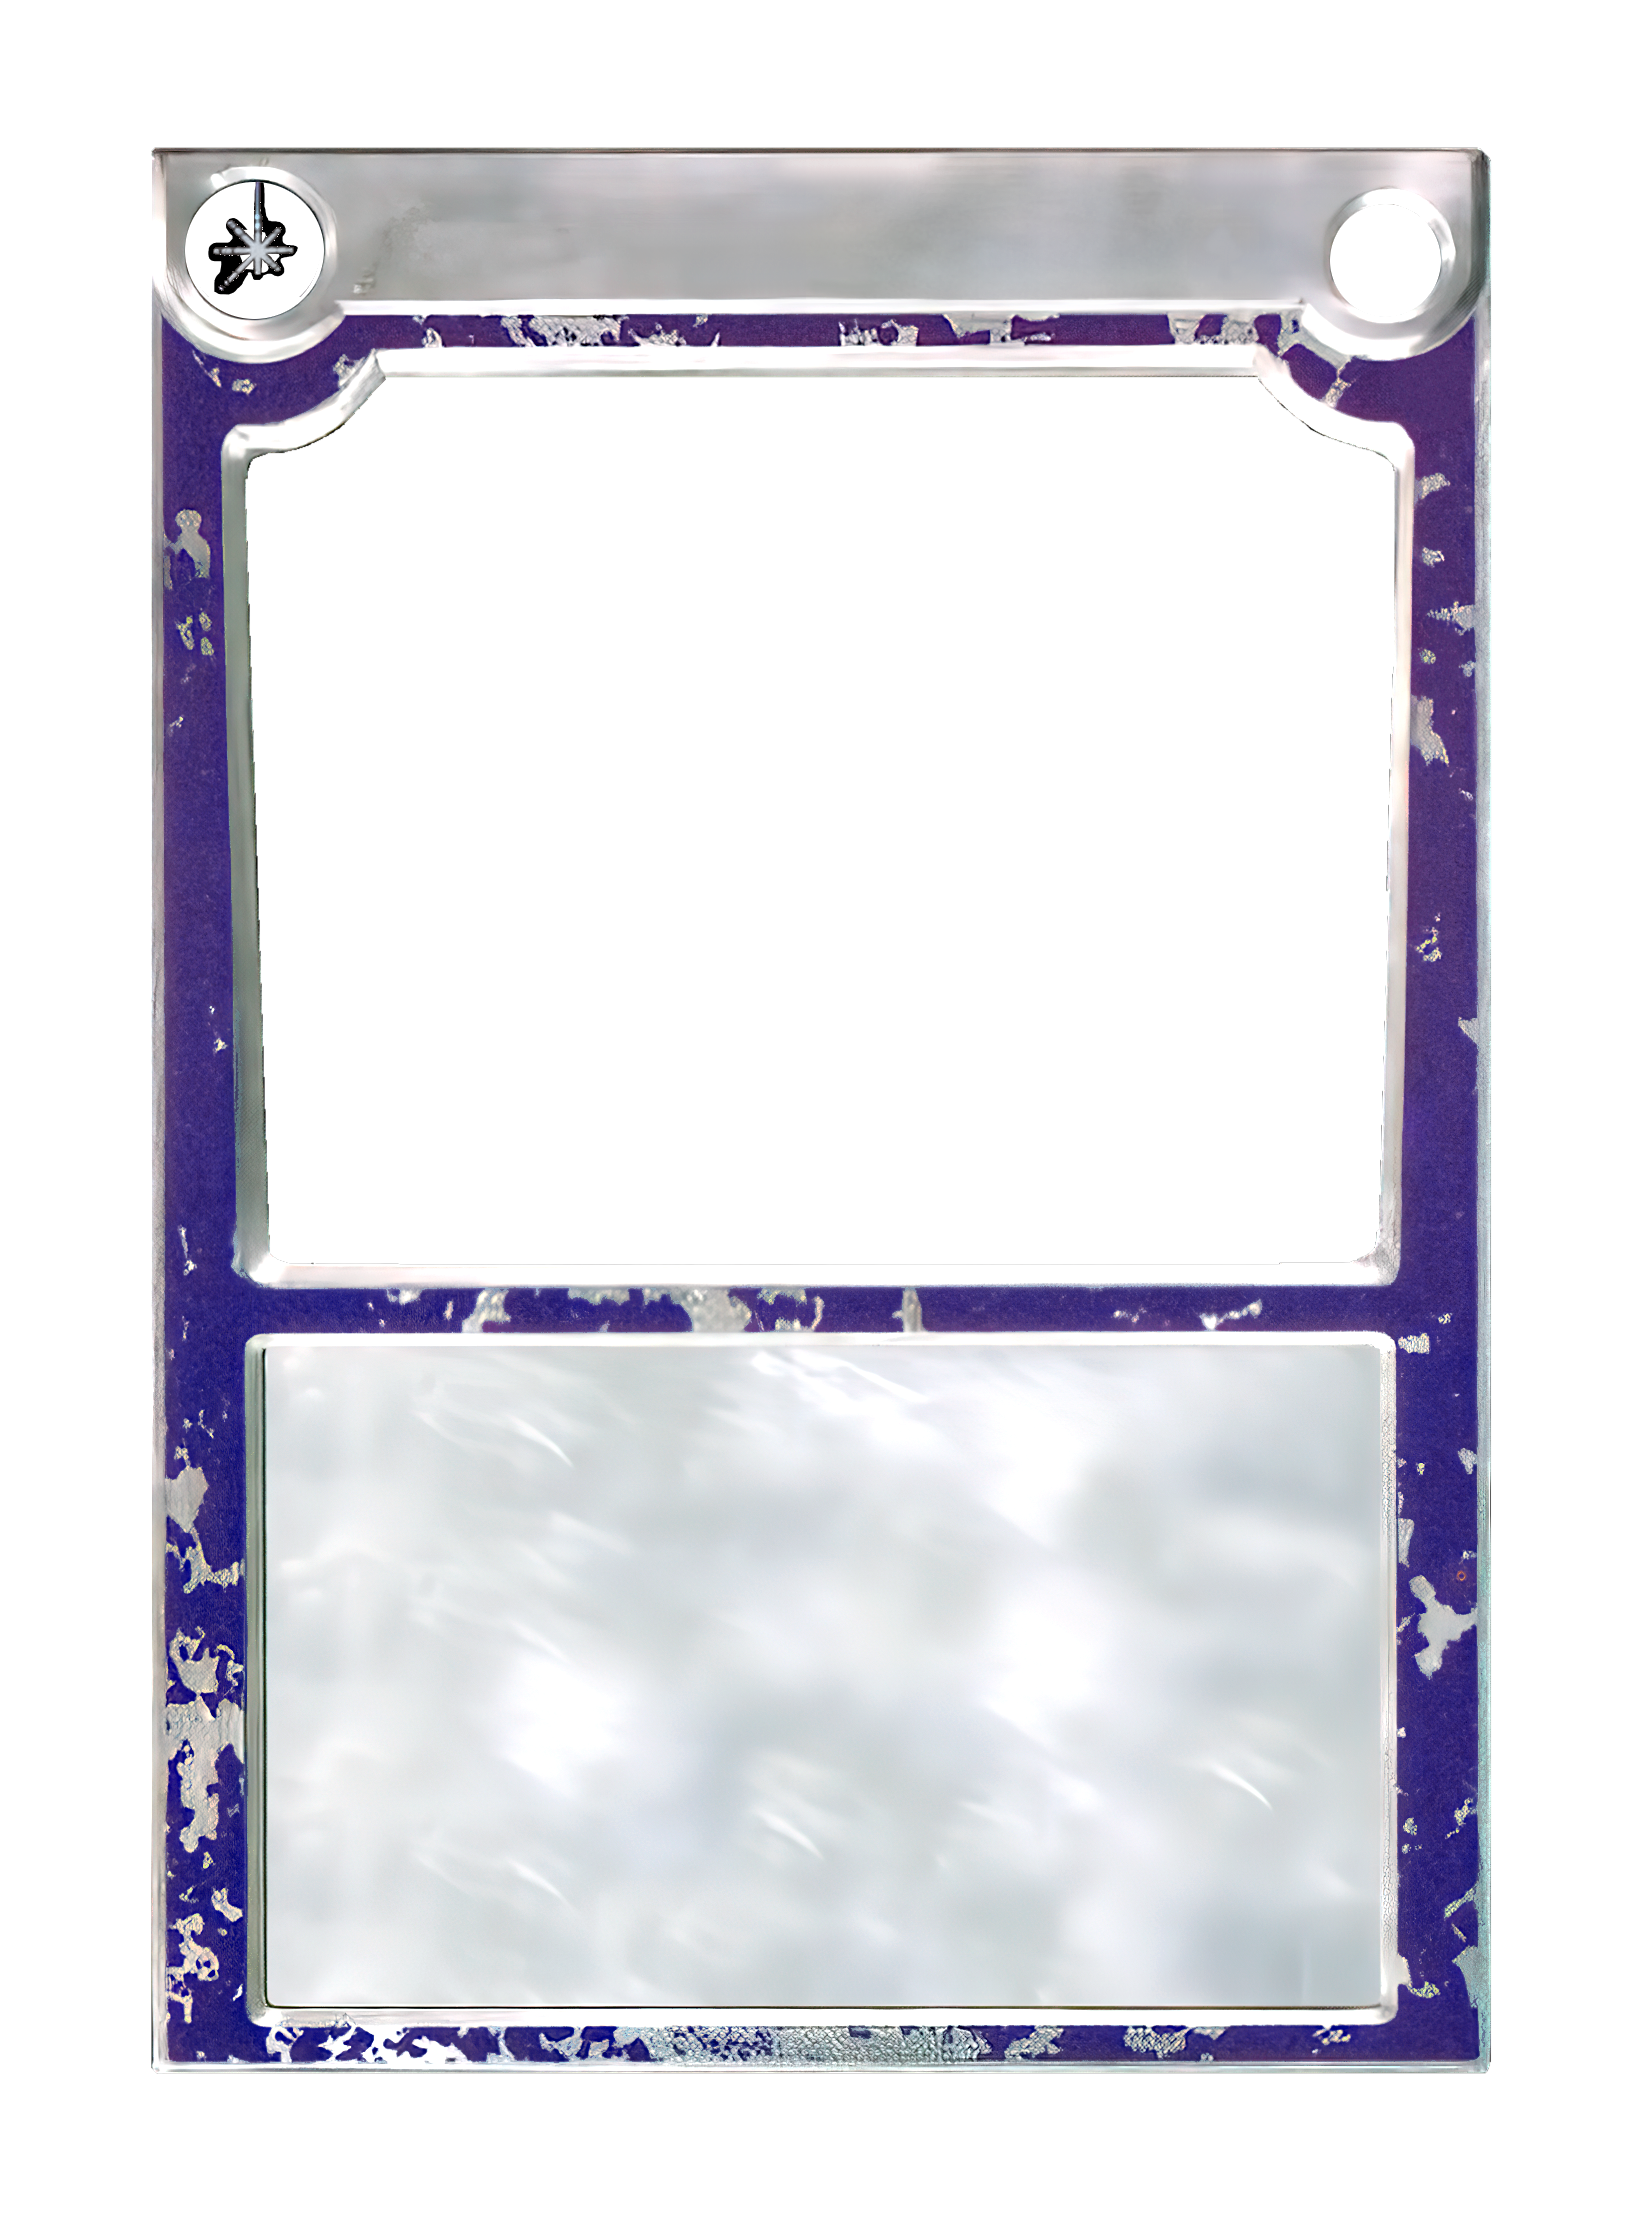
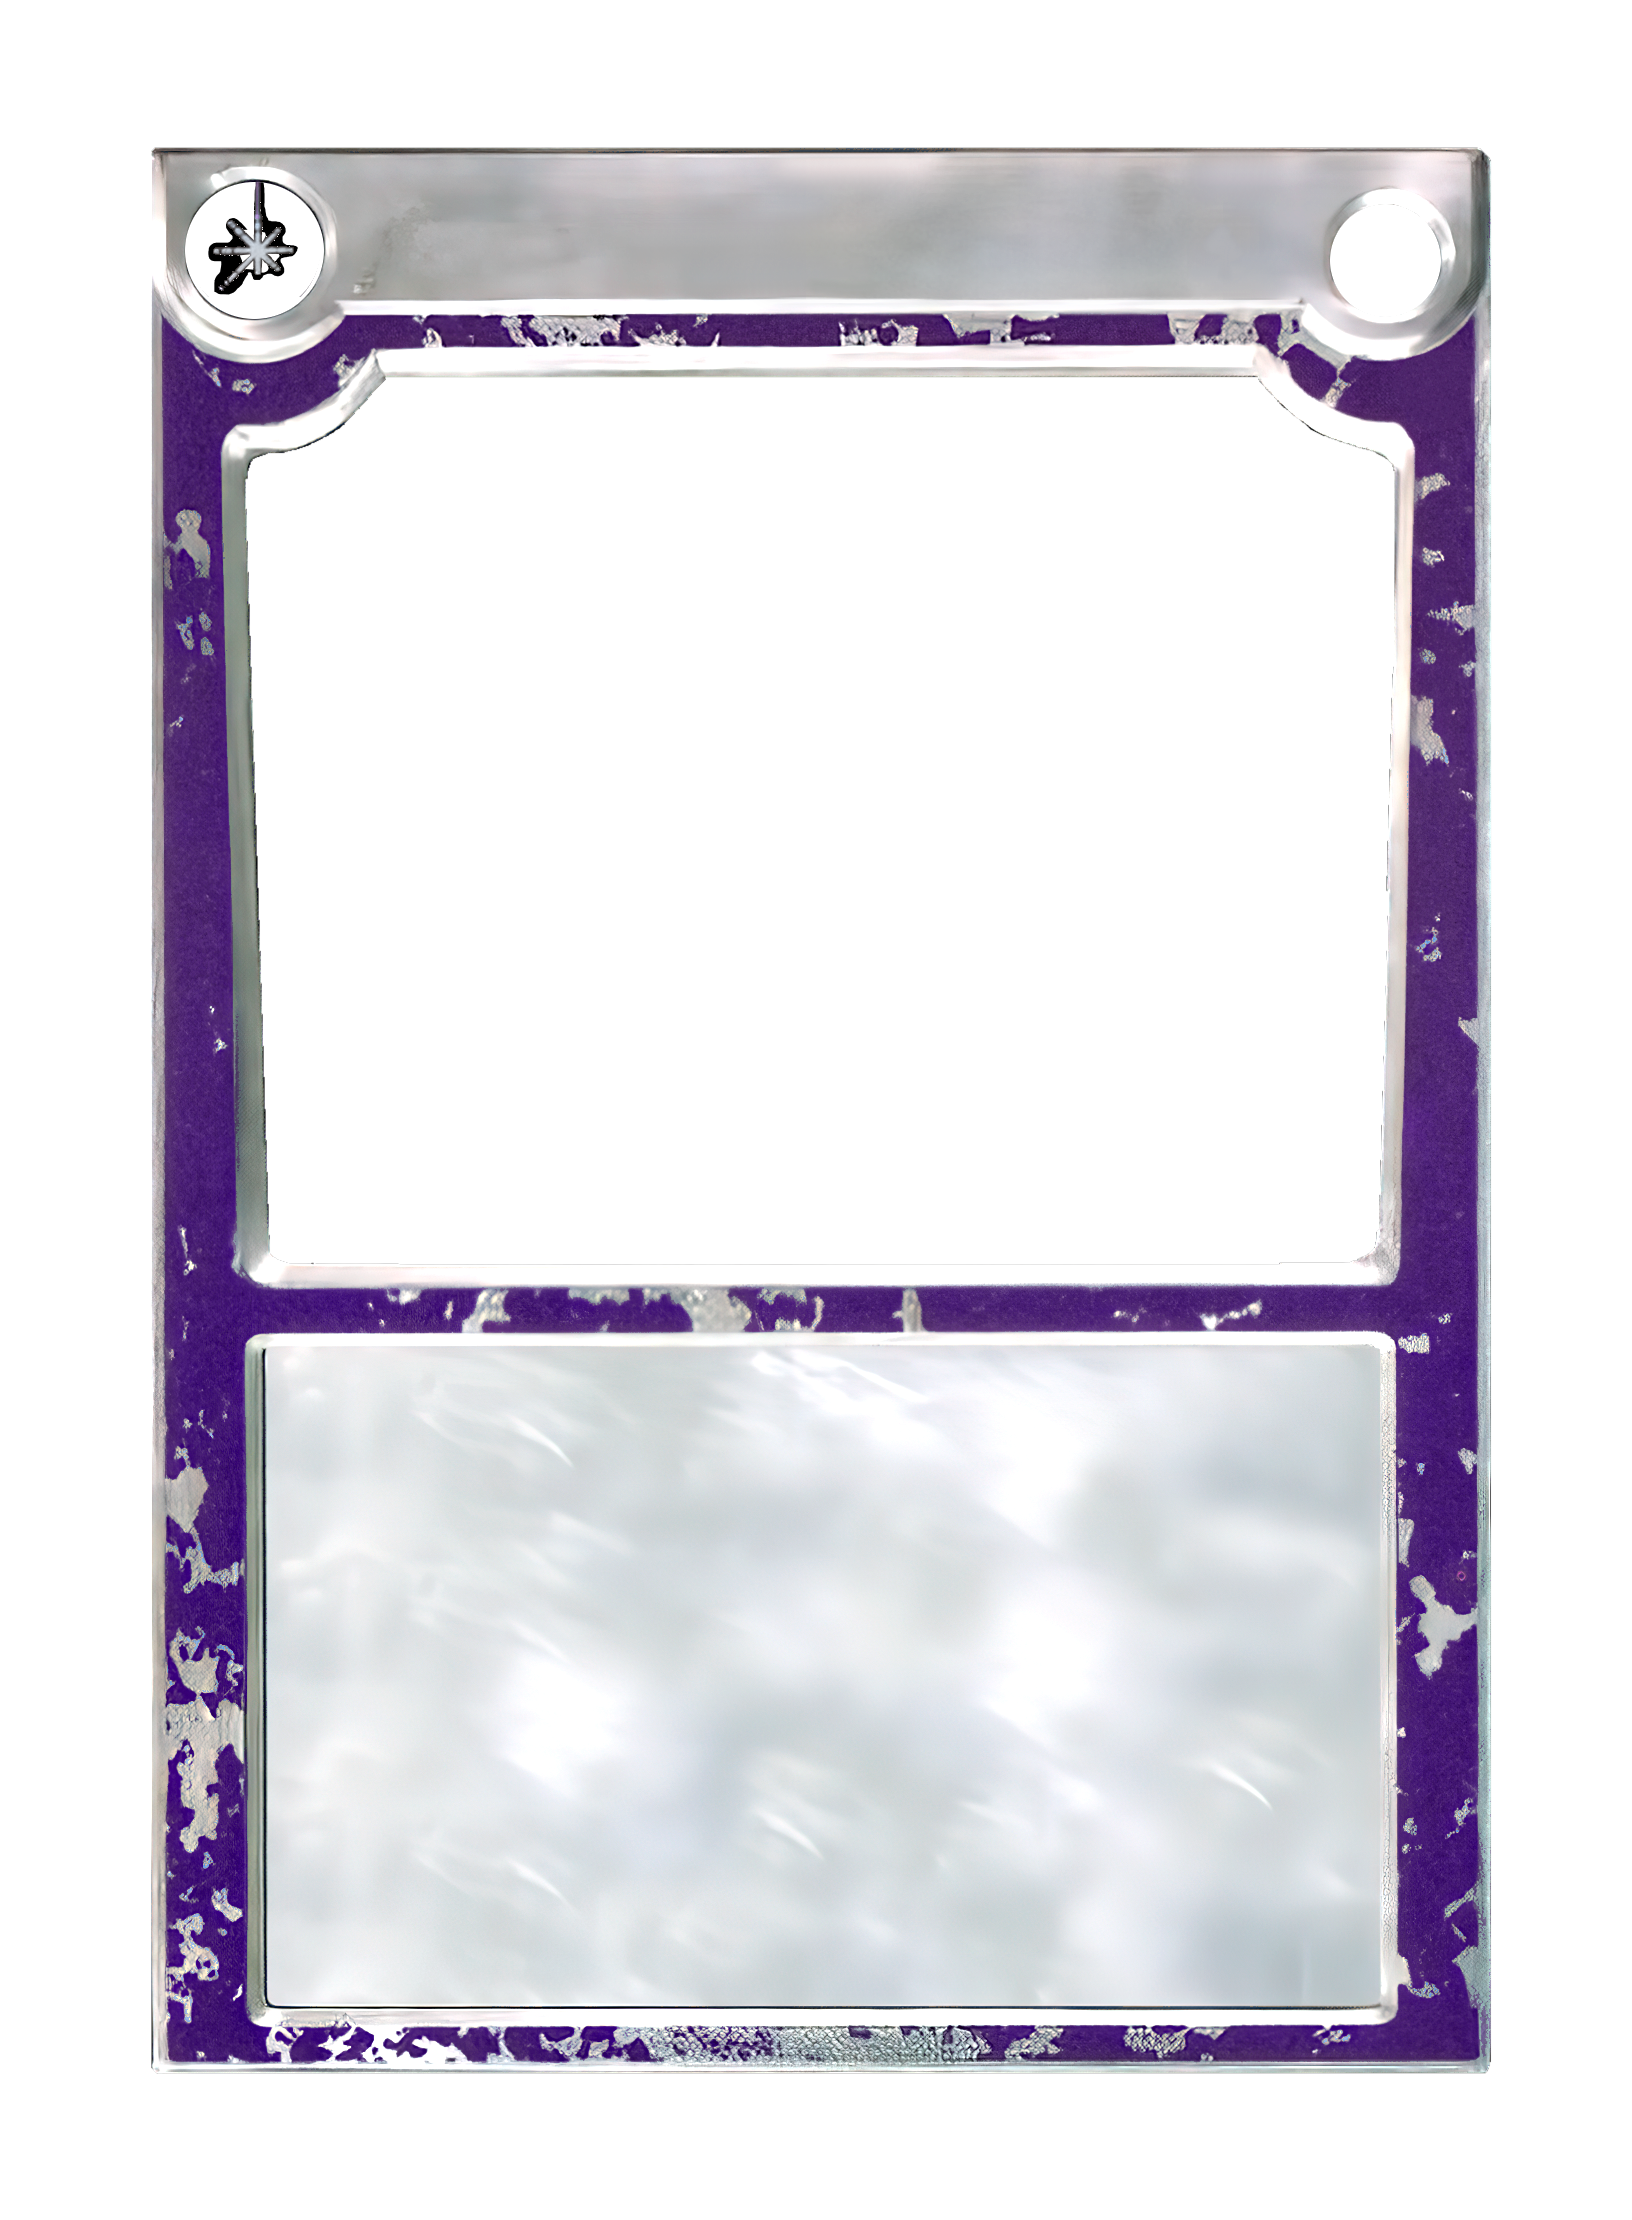
Objective frames: PC/slip purple (DS two-tone), sphere in the margin, slip-size text (STANDARD rev 9e)

diff --git a/render.py b/render.py
@@ -232,16 +232,22 @@ TEMPLATES = {
         "icon_slots": [(1353, 1651), (1353, 1756)], "set_icon_abs": (1363, 1926), "expansion_ring": (1375, 400),
         "copyright_x": 1416,
     },
-    "objective": {   # Bardez "DS - Objective.xcf" template layer: the printed and PC Dark Objectives have a BLACK text box with white text
+    "objective": {   # Bardez "DS - Objective.xcf" template, recoloured to the PC two-tone purple (make_objective_frames.py); black text box, white text
         "frame": ("frames/objective.png", 67, 73),
         "art": (236, 380, 1150, 855), "title": (382, 204, 878, 95), "destiny": (1310, 204, 105, 107),
-        "game_text": (300, 1352, 1040, 600), "set_icon_abs": (1282, 1908), "set_icon_size": 72,
+        # text box (black) 260..1377 × 1324..2003; the slip's text starts 60 px in and its longest lines run to within
+        # ~10 px of the right edge (62 px AGCn, 64 px pitch), so the box reaches almost to the edge and the fitter grows to it
+        "game_text": (300, 1350, 1070, 652), "gt_lh_add": 2,
+        # set sphere in the purple margin at the text box's bottom-right corner, as the slip prints it (centre 39 px right
+        # of the box's right edge, 7 px above its bottom; 66 px across)
+        "set_icon_abs": (1384, 1964), "set_icon_size": 66,
         "copyright_x": 1416, "no_type": True, "gt_grow": True,
     },
-    "objective-ls": {   # Bardez "LS - Epic Objective.xcf" (frame + Objective icon): Light Side scoring, textured white text box
+    "objective-ls": {   # Bardez "LS - Epic Objective.xcf" frame + Objective icon, re-hued to the Endor-era purple (make_objective_frames.py)
         "frame": ("frames/objective-ls.png", 0, 0),
         "art": (246, 378, 1148, 886), "title": (382, 204, 878, 95), "destiny": (1330, 204, 111, 113),
-        "game_text": (300, 1360, 1040, 600), "set_icon_abs": (1282, 1908), "set_icon_size": 72,
+        "game_text": (305, 1358, 1085, 646), "gt_lh_add": 2,   # text box (white) 267..1395 × 1332..2005
+        "set_icon_abs": (1401, 1965), "set_icon_size": 66,
         "copyright_x": 1416, "dark_text": True, "no_type": True, "gt_grow": True,
     },
     # Landscape location (site). Bardez "Location - Site.xcf": doc 2220×1632, frame layer 2073×1497 whose card
@@ -671,7 +677,7 @@ def build_html(card: dict) -> str:
     .destiny{{font-family:AGMedExt;font-size:80px;color:#fff;display:flex;align-items:center;justify-content:center;padding-top:2px;box-sizing:border-box}}
     .lore{{font-family:AGLightCn;font-size:58px;color:{ink};letter-spacing:0.8px;line-height:60px;padding:4px 110px 0 10px;box-sizing:border-box;text-align:{card.get("lore_align", "left")};text-indent:{card.get("lore_indent", 60)}px}}
     .lore b{{font-family:AGCn;font-weight:bold}}
-    .gt{{font-family:AGCn;font-size:{t.get("gt_size", 62)}px;color:{ink};letter-spacing:0.5px;line-height:{t.get("gt_size", 62) + 3}px;box-sizing:border-box;padding:6px 0 0 0;letter-spacing:0px;white-space:{"pre" if "\n" in card.get("game_text", "") else "normal"}}}
+    .gt{{font-family:AGCn;font-size:{t.get("gt_size", 62)}px;color:{ink};letter-spacing:0.5px;line-height:{t.get("gt_size", 62) + t.get("gt_lh_add", 3)}px;box-sizing:border-box;padding:6px 0 0 0;letter-spacing:0px;white-space:{"pre" if "\n" in card.get("game_text", "") else "normal"}}}
     .glyph{{font-family:"DejaVu Sans",sans-serif;font-size:1.0em;line-height:0;vertical-align:0.02em}}
     .tri{{font-family:"DejaVu Sans",sans-serif;font-size:0.88em;vertical-align:0.14em;line-height:0}}
     .gt b{{font-family:AGBoldCnA}}
@@ -704,7 +710,7 @@ def build_html(card: dict) -> str:
         let size = parseFloat(getComputedStyle(el).fontSize);
         let lh = parseFloat(getComputedStyle(el).lineHeight);
         if (el.classList.contains('grow')) {   // Objectives: the slip's lines fill the box width — grow until a line would overflow
-          while (el.scrollWidth <= el.clientWidth + 1 && el.scrollHeight <= el.clientHeight + 1 && size < 72) {
+          while (el.scrollWidth <= el.clientWidth + 1 && el.scrollHeight <= el.clientHeight + 1 && size < 63) {   // the slips set Objectives in 62 px
             size += 1; lh += 1; el.style.fontSize = size + 'px'; el.style.lineHeight = lh + 'px';
           }
         }

diff --git a/make_objective_frames.py b/make_objective_frames.py
@@ -1,0 +1,66 @@
+"""Build assets/frames/objective.png (Dark Side) and objective-ls.png (Light Side) from Bardez's templates, recoloured
+to the purple of the printed / PC Objective cards (Bill, 2026-10-12: "the purple tone has to match … Grab a Decipher
+DS objective if you must and recreate").
+
+Measured on the PC modern cards (src/vs4/modern/40-VB2-D-*.gif, 11-VB2-L-*.gif, median HSV of the frame's purple):
+  DS: two-tone — above the art window's bottom edge hue .70 / sat .70 / val .45, below it hue .76 / sat .64 / val .44
+      (the split is exactly at the art window's lower bevel; the side borders switch too).
+  LS: one tone  — hue .733 / sat .68 / val .45, over the silver-frost speckles of the Endor-era LS frame
+      (Bardez's "LS - Epic Objective" frame is that frame in Death Star II blue, hue .627 / sat .55 / val .50).
+
+    python3 make_objective_frames.py
+"""
+from __future__ import annotations
+from pathlib import Path
+import numpy as np
+from PIL import Image
+from gimpformats.gimpXcfDocument import GimpDocument
+
+ROOT = Path(__file__).resolve().parent
+
+
+def recolour(img: Image.Image, dh: float, ks: float, kv: float, rows=None, flatten: tuple | None = None) -> Image.Image:
+    """Shift hue by dh and scale sat/val of the coloured pixels (sat > .2); silver, white and black stay.
+    flatten=(h0, k) first pulls every hue towards h0 (h0 + (h - h0) * k) so a frame painted in several blues becomes
+    one purple."""
+    rgba = np.array(img.convert("RGBA"))
+    hsv = np.array(Image.fromarray(rgba[:, :, :3]).convert("HSV")).astype(float)
+    sel = hsv[:, :, 1] > 0.2 * 255
+    if rows is not None:
+        rmask = np.zeros_like(sel); rmask[rows] = True; sel &= rmask
+    h = hsv[:, :, 0]
+    if flatten:
+        h0 = flatten[0] * 255
+        h = h0 + (h - h0) * flatten[1]
+    h = (h + dh * 255) % 255
+    s = np.clip(hsv[:, :, 1] * ks, 0, 255)
+    v = np.clip(hsv[:, :, 2] * kv, 0, 255)
+    hsv[sel, 0], hsv[sel, 1], hsv[sel, 2] = h[sel], s[sel], v[sel]
+    rgb = np.array(Image.fromarray(hsv.astype(np.uint8), "HSV").convert("RGB"))
+    rgba[:, :, :3] = rgb
+    return Image.fromarray(rgba)
+
+
+def main():
+    # Dark Side: Bardez "DS - Objective" Template layer (1497×2073 at 67,73): hue .725 / sat .47 / val .34
+    ds = GimpDocument(str(ROOT / "bardez/DS - Objective.xcf")).raw_layers[4].image
+    split = 1165                                         # frame row of the art window's lower bevel
+    top = recolour(ds, 0.70 - 0.725, 0.70 / 0.47, 0.45 / 0.34, rows=slice(0, split))
+    ds2 = recolour(top, 0.76 - 0.725, 0.64 / 0.47, 0.44 / 0.34, rows=slice(split, None))
+    ds2.save(ROOT / "assets/frames/objective.png", optimize=True)
+
+    # Light Side: Bardez "LS - Epic Objective" frame layer (6) + its Objective icon layer (8), both at 67,73
+    doc = GimpDocument(str(ROOT / "bardez/LS - Epic Objective.xcf"))
+    frame = doc.raw_layers[6].image.convert("RGBA")
+    icon = doc.raw_layers[8].image.convert("RGBA")
+    canvas = Image.new("RGBA", (1632, 2220), (0, 0, 0, 0))
+    canvas.alpha_composite(frame, (67, 72))
+    canvas.alpha_composite(icon, (67, 73))
+    # one purple between the PC card (.735) and the slip (.763): hue .75, with Bardez's blue-to-blue variation flattened
+    ls = recolour(canvas, 0.75 - 0.627, 0.72 / 0.55, 0.45 / 0.50, flatten=(0.627, 0.3))
+    ls.save(ROOT / "assets/frames/objective-ls.png", optimize=True)
+    print("ok")
+
+
+if __name__ == "__main__":
+    main()

diff --git a/STANDARD.md b/STANDARD.md
@@ -159,3 +159,13 @@ ANH = `icons/set-anh-grainy.png` (from ANH-D-astromechshortage.gif). Do the same
   (HSV ≈ 0.70 / 0.63 / 0.48, rgb ≈ 70,46,123); Bardez's Objective frames (sat .47 / val .34) are re-saturated to
   that, both sides. Set sphere sits inside the text box's bottom-right corner (1282,1908, 72 px). Objective game
   text grows to fill the box width (`gt_grow`), since the slip's line breaks are fixed.
+- Rev 9e (Bill 2026-10-12): Objective purple is taken from the PC's Virtual Block cards / the slip, not from Bardez.
+  The Dark Objective frame is two-tone: blue-purple (hue .70 / sat .70 / val .45) above the art window's lower
+  bevel, red-purple (hue .76 / sat .64 / val .44) below it, side borders included — rev 9d's single tone was the
+  upper one, which is why the text-box half read too blue next to the slip. The Light Objective is one purple (hue
+  .75, between the PC card's .735 and the slip's .763) over the Endor-era silver-frost frame. Both frames are built
+  by `make_objective_frames.py` from the Bardez XCFs. The set sphere sits in the purple margin at the text box's
+  bottom-right corner (centre 39 px right of the box edge, 7 px above its bottom, 66 px across) as the slip prints
+  it — never inside the box. Objective game text is set like the slip: 62 px AGCn on a 64 px pitch, starting 60 px
+  in from the box's left edge, the longest line reaching to within ~10 px of its right edge; the text box reaches
+  almost to the frame's box edge so the fitter can grow to that size (capped at 63).
